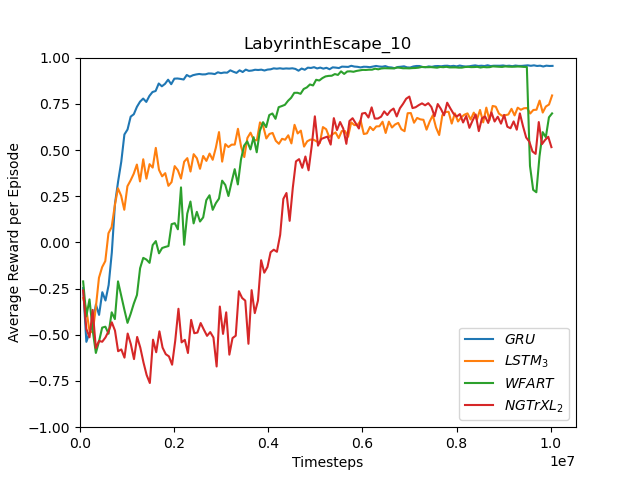
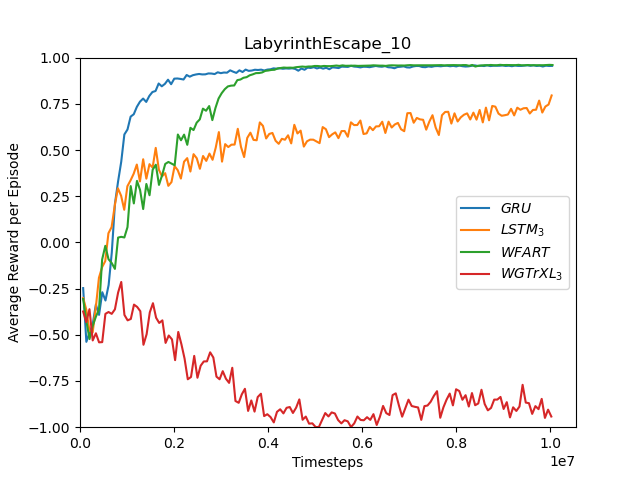
More graphs

diff --git a/custom_graphs/graphs3.py b/custom_graphs/graphs3.py
@@ -1,0 +1,82 @@
+# python final_experiment/graphs.py ./final_experiment <model-name> <run>
+
+import json
+import matplotlib.pyplot as plt
+import os
+import sys
+
+
+def load_json(path):
+    with open(path, 'r') as f:
+        return json.load(f)
+
+
+if __name__ == '__main__':
+    # path = sys.argv[1]
+    # model_name = sys.argv[2]
+    # run = sys.argv[3]
+
+    model_names = {
+        "gru_8_10_12": "GRU",
+        # "gru_10_12_14": "GRU",
+        "wfart_8_10_12": "WFART",
+        # "wfart_10_12_14": "WFART"
+    }
+
+    env_names = {
+        "LabyrinthEscapeVeryEasy": "LabyrinthEscape_8",
+        "LabyrinthEscapeEasy": "LabyrinthEscape_10",
+        "LabyrinthEscapeAlmostEasy": "LabyrinthEscape_12",
+        "LabyrinthEscapeMedium": "LabyrinthEscape_14",
+        "LabyrinthEscapeHard": "LabyrinthEscape_18",
+        "LabyrinthExploreVeryEasy": "LabyrinthExplore_8",
+        "LabyrinthExploreEasy": "LabyrinthExplore_10",
+        "LabyrinthExploreAlmostEasy": "LabyrinthExplore_12",
+        "LabyrinthExploreMedium": "LabyrinthExplore_14",
+        "LabyrinthExploreHard": "LabyrinthExplore_18"
+    }
+
+    envs = ["LabyrinthEscapeVeryEasy", "LabyrinthEscapeEasy", "LabyrinthEscapeAlmostEasy",
+            "LabyrinthExploreVeryEasy", "LabyrinthExploreEasy", "LabyrinthExploreAlmostEasy"]
+
+    for env in envs:
+        for model_name in ["gru_8_10_12", "wfart_8_10_12"]:
+            for run in ["run1", "run2"]:
+                mean_reward_per_episode = load_json(os.path.join(
+                    'final_experiment', model_name, run, 'mean_reward_per_episode.json'))
+                timestamps, avg_reward = zip(*mean_reward_per_episode[env])
+
+                modified_timestamps = []
+                change_color_points = []
+                last_cycle_timestamp = 0
+                last_timestamp = 0
+                for timestamp in timestamps:
+                    if timestamp < last_timestamp:
+                        change_color_points.append(
+                            (last_cycle_timestamp, last_timestamp+last_cycle_timestamp))
+                        last_cycle_timestamp = last_timestamp+last_cycle_timestamp
+
+                    modified_timestamps.append(timestamp+last_cycle_timestamp)
+                    last_timestamp = timestamp
+                change_color_points.append(
+                    (last_cycle_timestamp, last_timestamp+last_cycle_timestamp))
+
+                plt.plot(modified_timestamps, avg_reward,
+                         label=f"${model_names[model_name]}$ - Run {run[-1]}")
+
+        plt.title(f'{env_names[env]}')
+
+        even = False
+        for change_color_point in change_color_points:
+            if even:
+                plt.axvspan(
+                    change_color_point[0], change_color_point[1], color='grey', alpha=0.3)
+            even = not even
+
+        plt.ylim((-1, 1))
+        plt.xlim(xmin=0)
+        plt.xlabel('Timesteps')
+        plt.ylabel('Average Reward per Episode')
+        plt.legend()
+        plt.savefig(f'custom_graphs/graphs3/{env_names[env]}.png')
+        plt.clf()

diff --git a/custom_graphs/graphs2.py b/custom_graphs/graphs2.py
@@ -1,0 +1,79 @@
+# python final_experiment/graphs.py ./final_experiment <model-name> <run>
+
+import json
+import matplotlib.pyplot as plt
+import os
+import sys
+
+
+def load_json(path):
+    with open(path, 'r') as f:
+        return json.load(f)
+
+
+if __name__ == '__main__':
+    # path = sys.argv[1]
+    # model_name = sys.argv[2]
+    # run = sys.argv[3]
+
+    model_names = {
+        "gru_10_12_14": "GRU",
+        "wfart_10_12_14": "WFART"
+    }
+
+    env_names = {
+        "LabyrinthEscapeVeryEasy": "LabyrinthEscape_8",
+        "LabyrinthEscapeEasy": "LabyrinthEscape_10",
+        "LabyrinthEscapeAlmostEasy": "LabyrinthEscape_12",
+        "LabyrinthEscapeMedium": "LabyrinthEscape_14",
+        "LabyrinthEscapeHard": "LabyrinthEscape_18",
+        "LabyrinthExploreVeryEasy": "LabyrinthExplore_8",
+        "LabyrinthExploreEasy": "LabyrinthExplore_10",
+        "LabyrinthExploreAlmostEasy": "LabyrinthExplore_12",
+        "LabyrinthExploreMedium": "LabyrinthExplore_14",
+        "LabyrinthExploreHard": "LabyrinthExplore_18"
+    }
+
+    envs = ["LabyrinthEscapeEasy", "LabyrinthEscapeAlmostEasy", "LabyrinthEscapeMedium",
+            "LabyrinthExploreEasy", "LabyrinthExploreAlmostEasy", "LabyrinthExploreMedium"]
+
+    for env in envs:
+        for model_name in ["gru_10_12_14", "wfart_10_12_14"]:
+            mean_reward_per_episode = load_json(os.path.join(
+                'final_experiment', model_name, 'run1', 'mean_reward_per_episode.json'))
+            timestamps, avg_reward = zip(*mean_reward_per_episode[env])
+
+            modified_timestamps = []
+            change_color_points = []
+            last_cycle_timestamp = 0
+            last_timestamp = 0
+            for timestamp in timestamps:
+                if timestamp < last_timestamp:
+                    change_color_points.append(
+                        (last_cycle_timestamp, last_timestamp+last_cycle_timestamp))
+                    last_cycle_timestamp = last_timestamp+last_cycle_timestamp
+
+                modified_timestamps.append(timestamp+last_cycle_timestamp)
+                last_timestamp = timestamp
+            change_color_points.append(
+                (last_cycle_timestamp, last_timestamp+last_cycle_timestamp))
+
+            plt.plot(modified_timestamps, avg_reward,
+                     label=f"${model_names[model_name]}$")
+
+        plt.title(f'{env_names[env]}')
+
+        even = False
+        for change_color_point in change_color_points:
+            if even:
+                plt.axvspan(
+                    change_color_point[0], change_color_point[1], color='grey', alpha=0.3)
+            even = not even
+
+        plt.ylim((-1, 1))
+        plt.xlim(xmin=0)
+        plt.xlabel('Timesteps')
+        plt.ylabel('Average Reward per Episode')
+        plt.legend()
+        plt.savefig(f'custom_graphs/graphs2/{env_names[env]}.png')
+        plt.clf()

diff --git a/custom_graphs/graphs.py b/custom_graphs/graphs.py
@@ -19,7 +19,7 @@ if __name__ == "__main__":
         "gru_8_10_12": "GRU",
         "lstm3_8_10_12": "LSTM_3",
         "wfart_8_10_12": "WFART",
-        "ngtrxl2_8_10_12": "NGTrXL_2"
+        "wgtrxl3_8_10_12": "WGTrXL_3"
     }
 
     env_names = {
@@ -39,7 +39,7 @@ if __name__ == "__main__":
             "LabyrinthExploreVeryEasy", "LabyrinthExploreEasy", "LabyrinthExploreAlmostEasy"]
 
     for env in envs:
-        for model_name in ["gru_8_10_12", "lstm3_8_10_12", "wfart_8_10_12", "ngtrxl2_8_10_12"]:
+        for model_name in ["gru_8_10_12", "lstm3_8_10_12", "wfart_8_10_12", "wgtrxl3_8_10_12"]:
 
             mean_reward_per_episode = load_json(os.path.join(
                 'initial_experiment', model_name, "mean_reward_per_episode.json"))
